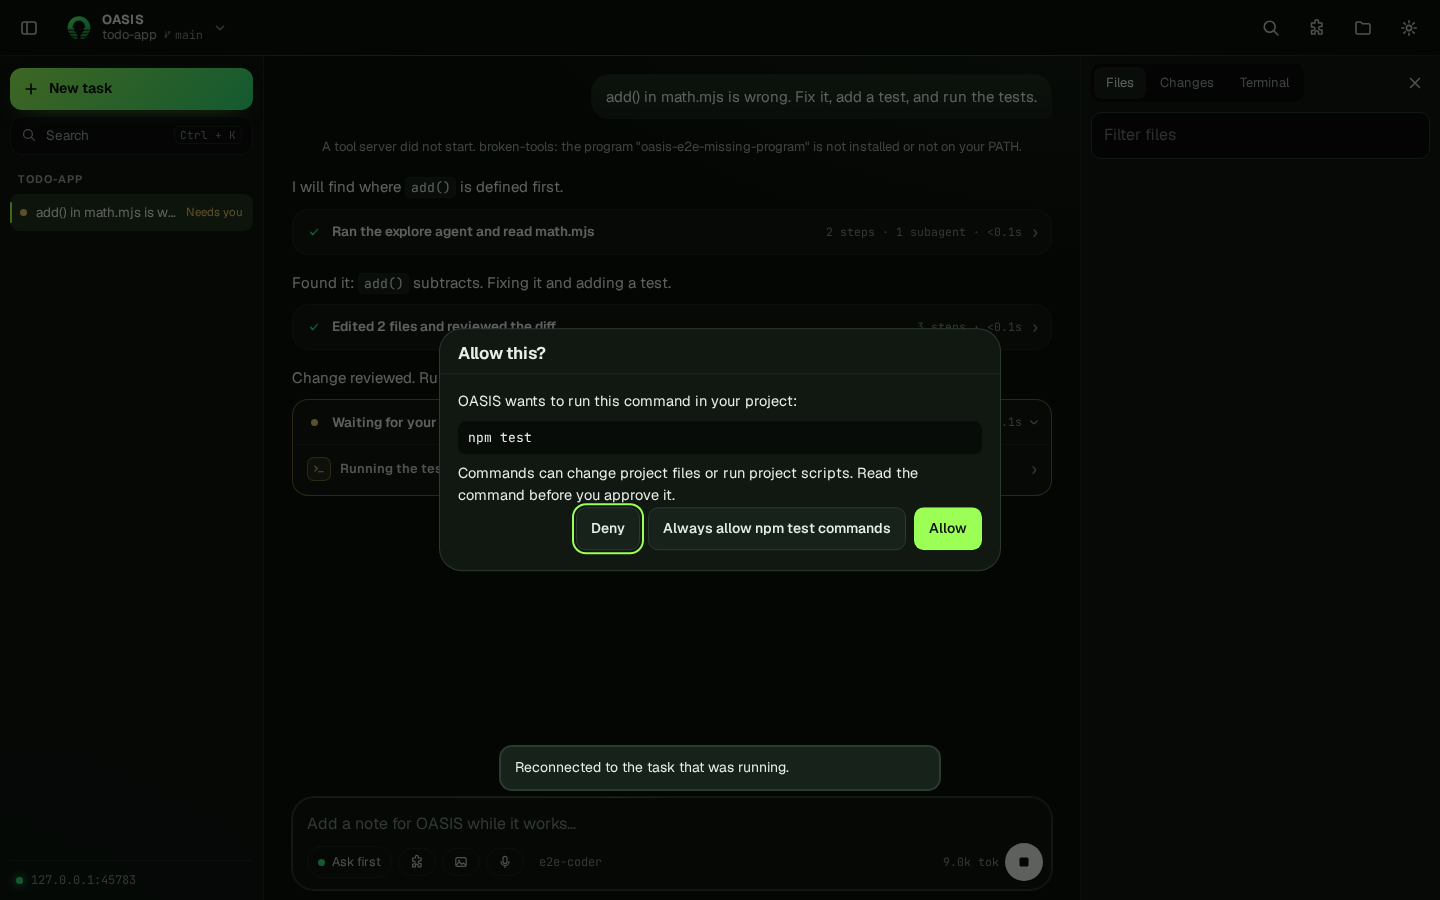
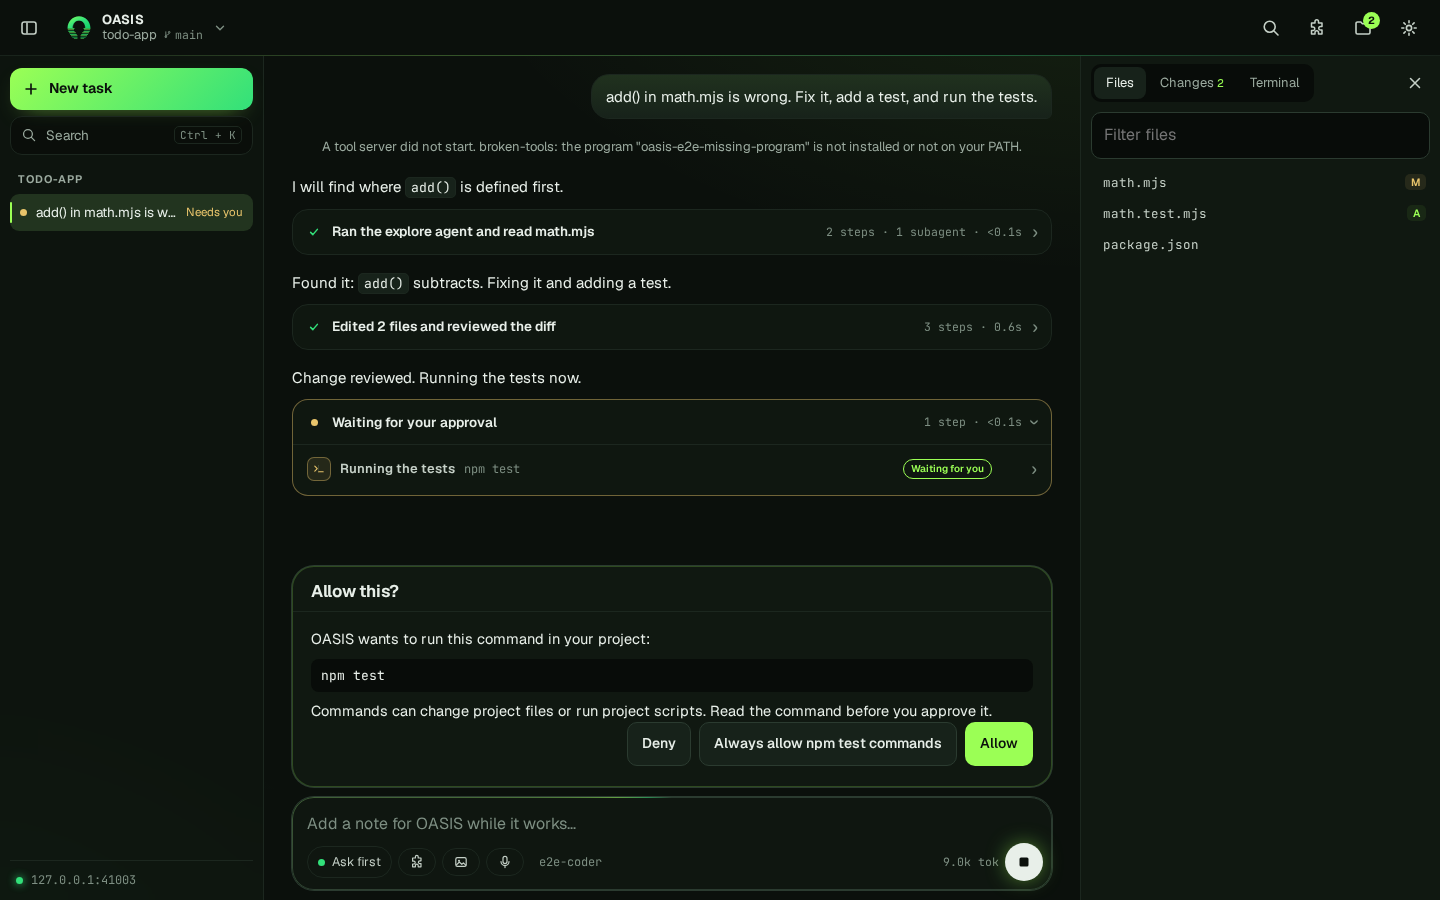
E2E: audit and capture the approval when it first appears; refresh approval screenshot

diff --git a/README.md b/README.md
@@ -83,7 +83,7 @@ OASIS has two interfaces, both on the same runtime, sessions and settings. Start
   </tr>
   <tr>
     <td><a href="assets/demo/oasis-real-model-demo.mp4"><img src="assets/demo/oasis-real-model-demo.gif" alt="Unscripted OASIS terminal run with gpt-oss-20b: the agent reads a file, fixes a bug, adds a test, runs it after approval and is sent back to review its changes."></a></td>
-    <td><img src="assets/screenshots/web-approval-dark.png" alt="The OASIS web app asking for approval to run npm test, with the step behind it marked as waiting."></td>
+    <td><img src="assets/screenshots/web-approval-dark.png" alt="The OASIS web app asking for approval to run npm test in a card above the message box, with the step behind it marked as waiting and the task sidebar showing Needs you."></td>
   </tr>
   <tr>
     <td>Streaming diffs with word highlights, inline images, <code>/tasks</code>, <code>/rewind</code>, <code>/export</code> to Markdown or HTML. <code>oasis -p</code> and <code>oasis exec</code> for scripts, with JSON output and <code>--output-schema</code>.</td>
